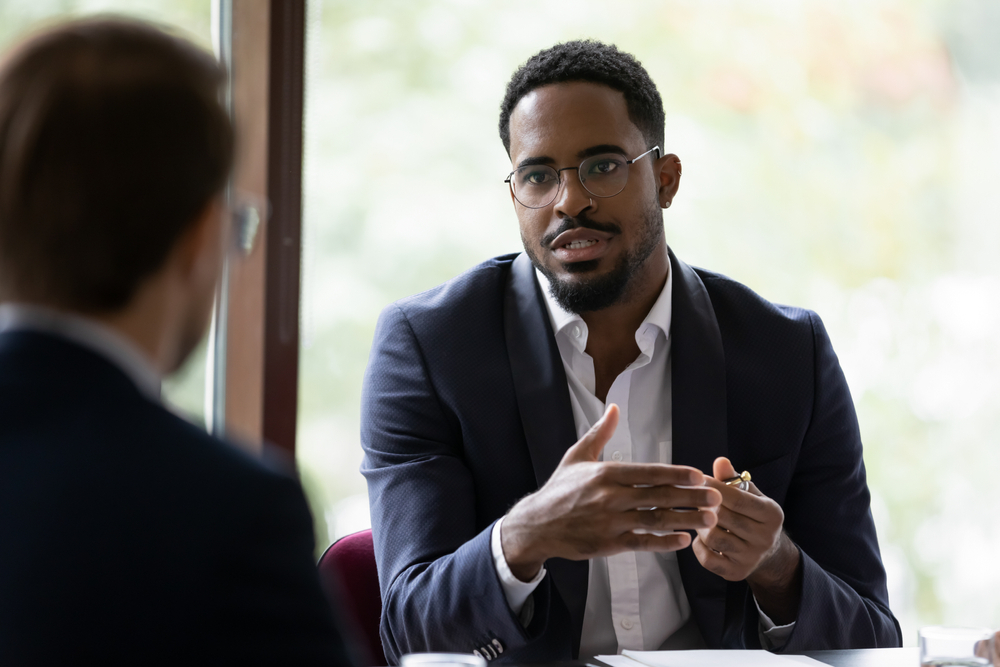
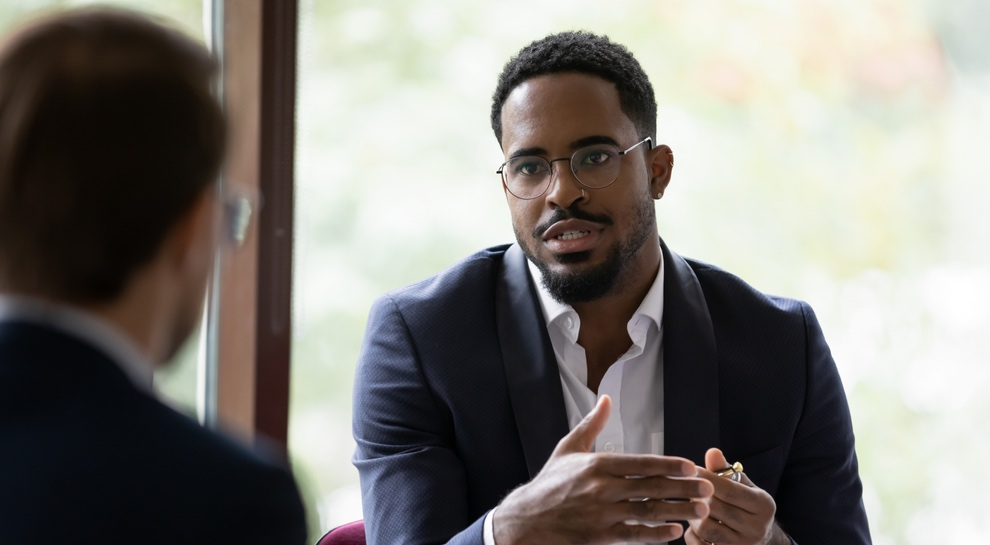
fixed deposit page

diff --git a/static/css/styles.css b/static/css/styles.css
@@ -131,7 +131,7 @@ body {
 .about-cover {
     background-size: cover;
     background-position: center;
-    height: 600px; 
+    height: 400px; 
     display: flex;
     align-items: center;
     justify-content: center;
@@ -329,3 +329,110 @@ button {
 button:hover {
     background-color: #45a049;
 }
+
+/* savings plans */
+
+.container_savings_plan {
+    max-width: 800px;
+    margin: auto;
+    padding: 20px;
+    background-color: #f8f9fa;
+    border-radius: 10px;
+    box-shadow: 0 4px 8px rgba(0, 0, 0, 0.1);
+}
+
+.container_savings_plan h1 {
+    color: #333;
+    margin-bottom: 20px;
+}
+
+.container_savings_plan p {
+    font-size: 1.1em;
+    line-height: 1.6;
+    color: #555;
+}
+
+.btn-primary1 {
+    background-color: #6E260E;
+    border-color: #007bff;
+    color: white;
+}
+
+.btn-primary1:hover {
+    background-color: #0069d9;
+    border-color: #0062cc;
+}
+
+.btn-secondary2 {
+    background-color: #6c757d;
+    border-color: #6c757d;
+    color: white;
+}
+
+.btn-secondary2:hover {
+    background-color: #5a6268;
+    border-color: #545b62;
+}
+
+/* Fixed Deposit */
+
+.container_fd {
+    max-width: 800px;
+    margin: auto;
+    padding: 20px;
+    background-color: #f8f9fa;
+    border-radius: 10px;
+    box-shadow: 0 4px 8px rgba(0, 0, 0, 0.1);
+}
+
+.container_fd h1, .container h2 {
+    color: #333;
+    margin-bottom: 20px;
+}
+
+.container_fd p {
+    font-size: 1.1em;
+    line-height: 1.6;
+    color: #555;
+}
+
+.container_fd ul {
+    list-style-type: none;
+    padding: 0;
+}
+
+.container_fd ul li {
+    background-color: #fff;
+    margin-bottom: 10px;
+    padding: 15px;
+    border-radius: 5px;
+    box-shadow: 0 2px 4px rgba(0, 0, 0, 0.1);
+}
+
+.container_fd ul li strong {
+    color: #007bff;
+}
+
+.btn-primary_fd {
+    background-color: #6E260E;
+    border-color: #007bff;
+    color: white;
+}
+
+.btn-primary_fd:hover {
+    background-color: #0069d9;
+    border-color: #0062cc;
+}
+
+.btn-secondary_fd {
+    background-color: #000000;
+    border-color: #1987e8;
+    color: white;
+}
+
+.btn-secondary_fd:hover {
+    background-color: #1388e1;
+    border-color: #0f75db;
+}
+
+/* Additional styling as needed */

diff --git a/templates/fixed_deposit.html b/templates/fixed_deposit.html
@@ -1,5 +1,21 @@
 {% extends 'base.html' %}
+
 {% block content %}
-<h1>Fixed Deposit</h1>
-<!-- Information about Fixed Deposit services -->
+<div class="container_fd mt-4">
+    <h1>Explore Our Fixed Deposit Options</h1>
+    <p>Welcome to our Fixed Deposit services, where we offer you a variety of options to grow your savings securely. Fixed Deposits are an ideal choice if you're looking for a risk-free investment with stable returns.</p>
+    
+    <h2>Our Fixed Deposit Plans</h2>
+    <ul>
+        <li><strong>Short-Term Deposits:</strong> Perfect for those seeking quick returns. Tenures range from 30 days to 6 months with attractive interest rates.</li>
+        <li><strong>Medium-Term Deposits:</strong> Ideal for savers with a mid-range investment horizon. Enjoy higher interest rates for tenures of 1 to 3 years.</li>
+        <li><strong>Long-Term Deposits:</strong> Best suited for long-term financial goals. Secure the highest interest rates for tenures extending beyond 3 years.</li>
+    </ul>
+    
+    <p>Our Fixed Deposit accounts come with features like auto-renewal options, loan facilities against deposits, and flexible interest payouts. Tailor your deposit plan as per your convenience and financial goals.</p>
+    
+    <p>Not sure which plan is right for you? Our <a href="#savings-calculator" class="link">Savings Growth Calculator</a> can help you estimate your potential earnings. For more personalized guidance, our team of dedicated financial advisors is here to assist you.</p>
+    
+    <p><a href="#get-started" class="btn btn-primary_fd">Get Started with a Fixed Deposit</a> or <a href="#contact-advisor" class="btn btn-secondary_fd">Contact an Advisor</a> to explore the best options for your savings.</p>
+</div>
 {% endblock %}

diff --git a/templates/savings_plan.html b/templates/savings_plan.html
@@ -1,10 +1,10 @@
 {% extends 'base.html' %}
 {% block content %}
-<div class="container mt-4">
+<div class="container_savings_plan mt-4">
     <h1>Savings Plans</h1>
     <p>Welcome to our Savings Plans page, where securing your financial future is made simple. Our diverse range of savings options caters to various financial goals, whether you're building an emergency fund, saving for a major purchase, or planning for retirement.</p>
     <p>Explore our <strong>Regular Savings Accounts</strong> for steady growth, or maximize your earnings with our <strong>High-Yield Savings Plans</strong>. For goal-specific savings, our <strong>Targeted Savings Accounts</strong> offer flexibility and competitive interest rates.</p>
     <p>Not sure which plan suits you best? Use our interactive <strong>Savings Growth Calculator</strong> to estimate your potential earnings. Need more personalized guidance? Our financial advisors are here to help you make the right choice.</p>
-    <p><a href="#" class="btn btn-primary">Get Started with a Savings Plan</a> or <a href="#" class="btn btn-secondary">Contact an Advisor</a> today and take the first step towards a secure financial future.</p>
+    <p><a href="#" class="btn btn-primary1">Get Started with a Savings Plan</a> or <a href="#" class="btn btn-secondary2">Contact an Advisor</a> today and take the first step towards a secure financial future.</p>
 </div>
 {% endblock %}

diff --git a/templates/about.html b/templates/about.html
@@ -1,7 +1,7 @@
 {% extends 'base.html' %}
 
 {% block content %}
-<div class="about-cover" style="background-image: url('{{ url_for('static', filename='/images/FINANCIAL.jpg1.jpg') }}');">
+<div class="about-cover" style="background-image: url('{{ url_for('static', filename='/images/FINANCIAL2.jpg1.jpg') }}');">
     <div class="cover-content">
         <h1>Welcome to TreasureTrove Loans and Savings Services .</h1>
     </div>
